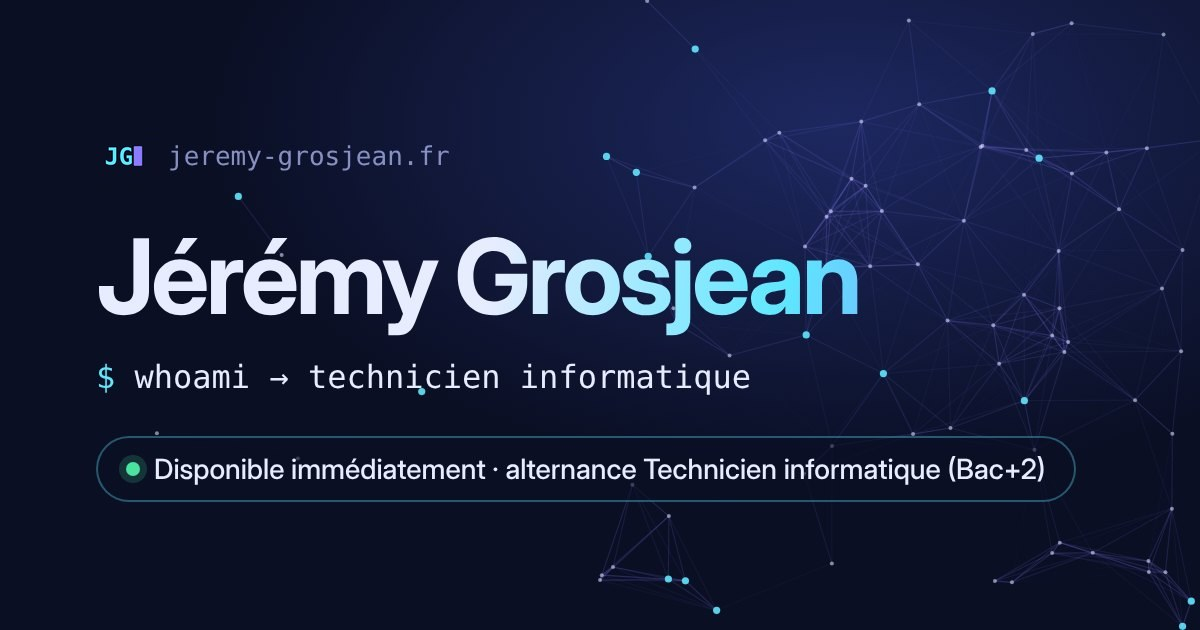
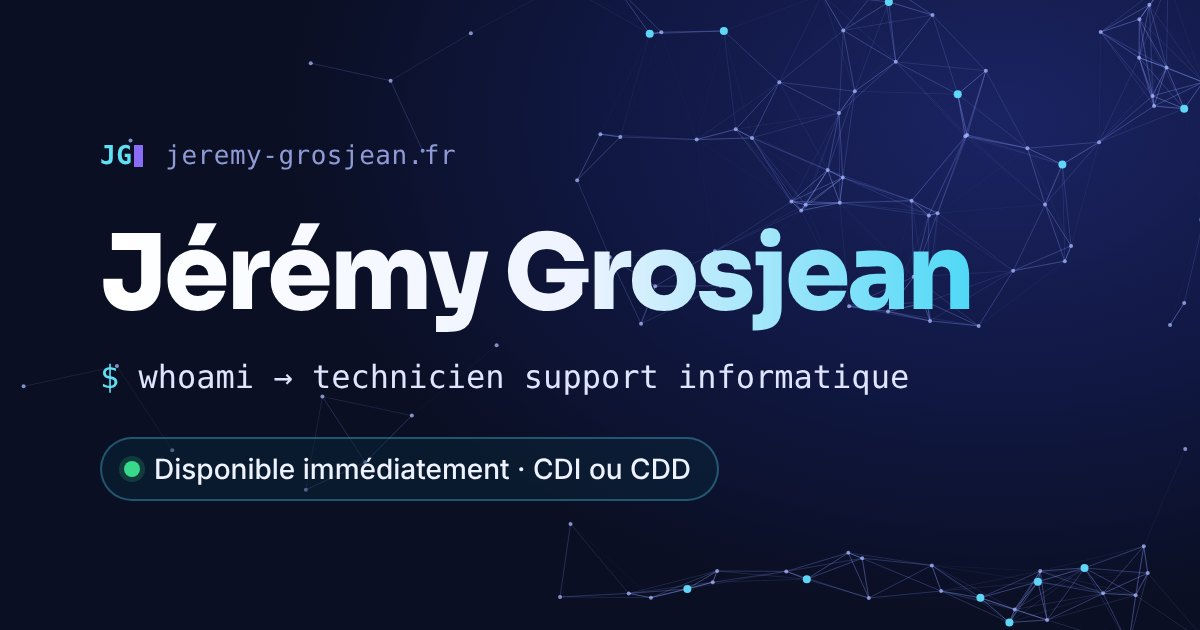
feat: recherche d'un poste de technicien support en CDI ou CDD, alternance en option
- titre « Technicien support informatique », disponibilité « CDI ou CDD » partout (accueil, fiche, vue sur une page, carte de visite, terminal, e-mail prérempli, partage, fiche contact, manifeste, image de partage)
- l'alternance (bac+2, OpenClassrooms) reste sur une seule ligne, en option
- fenêtre « M'embaucher en contrat pro » retirée de la fiche ; l'ancien lien ouvre la fiche
- FAQ : alternance, compétences, départ de Bosch ; 6 langues

diff --git a/site/assets/labs7.js b/site/assets/labs7.js
@@ -423,3 +423,168 @@
     if (r) { r[0] = 'MOD + E'; r[1] = D[k].recKey; }
   }
 })(window.JG_I18N || {});
+/* Lot 72 : recherche d'un poste de technicien support en CDI ou CDD ; l'alternance (bac+2) reste possible, sur une seule ligne discrète */
+(function (L) {
+  const D = {
+    fr: {
+      title: 'Jérémy Grosjean · Technicien support informatique', titleTab: 'Jérémy Grosjean · Technicien support informatique', whoRole: 'technicien support informatique',
+      availLine: 'Disponible immédiatement · CDI ou CDD', fmAvail: 'Disponible immédiatement · CDI ou CDD', fmRole: 'Technicien support informatique · CDI ou CDD',
+      briefSub: 'Technicien support informatique · CDI ou CDD · disponible immédiatement',
+      contactIntro: 'Pour un poste, une question ou un échange, écrivez-moi :',
+      tWhoami: 'Jérémy Grosjean, technicien support informatique. Recherche un CDI ou un CDD. Tapez boot ou contact.',
+      tourBrief: 'Mon profil en 30 secondes : poste recherché, expérience, titre, disponibilité.',
+      shText: 'Jérémy Grosjean, technicien support informatique, cherche un CDI ou un CDD',
+      shMailSubject: 'Profil : Jérémy Grosjean, technicien support informatique',
+      mailSubject: 'Poste de technicien support informatique : prise de contact',
+      mailBody: 'Bonjour Jérémy,\n\nJe vous contacte au sujet d’un poste de technicien support informatique.\n\nEntreprise :\nVille :\nType de contrat :\nDate de début souhaitée :\nTéléphone :\n\nCordialement,\n',
+      slotIcsTitle: 'Entretien avec Jérémy Grosjean (technicien support informatique)',
+      domTip: 'Mes domaines de travail défilent ici', goalV: 'technicien support informatique, CDI ou CDD',
+      boot: [['ok', 'Titre professionnel TAI (niveau 4) obtenu'], ['wait', 'Recherche un CDI ou un CDD de technicien support'], ['info', 'Windows 11, Microsoft 365, Active Directory, GLPI'], ['info', 'Alternance possible aussi (bac+2, OpenClassrooms)']],
+      bootShort: [['ok', 'TAI niveau 4 obtenu'], ['ok', 'Près de 4 ans en support'], ['wait', 'CDI ou CDD recherché'], ['info', 'Alternance possible aussi']],
+      rows: [['Recherche', 'Un poste de technicien support informatique (support N1/N2, poste de travail, proximité), en CDI ou CDD, dans une entreprise ou dans la fonction publique'],
+        ['Expérience', 'Près de 4 ans en support informatique, dont près de 3 ans chez Bosch, jusqu’à la fermeture du site en septembre 2026'],
+        ['Alternance', 'Possible aussi si le poste le demande : contrat de professionnalisation de 12 mois pour préparer le bac+2 Technicien informatique (OpenClassrooms)'],
+        ['Compétences', 'Support N1/N2, GLPI et ITIL, Windows 10/11, Microsoft 365, Active Directory, réseau, PowerShell']],
+      tiles: [['Poste recherché', 'Technicien support', 'informatique, en CDI ou CDD'], ['Disponibilité', 'Immédiate', 'sans préavis'], ['Alternance', 'Possible aussi', 'bac+2 Technicien informatique, OpenClassrooms']],
+      q: ['Êtes-vous ouvert à l’alternance ?', 'Quelles sont vos compétences ?', 'Pourquoi avez-vous quitté Bosch ?'],
+      bosch: 'Le site Bosch d’Yzeure a fermé en septembre 2026 : mon poste s’est arrêté avec la fermeture du site.',
+      next: ['Maintenant', 'Technicien support informatique, en CDI ou CDD', 'Disponible immédiatement · alternance possible aussi (bac+2, OpenClassrooms, RNCP40357)']
+    },
+    en: {
+      title: 'Jérémy Grosjean · IT Support Technician', titleTab: 'Jérémy Grosjean · IT Support Technician', whoRole: 'IT support technician',
+      availLine: 'Available now · permanent or fixed-term', fmAvail: 'Available now · permanent or fixed-term', fmRole: 'IT support technician · permanent or fixed-term',
+      briefSub: 'IT support technician · permanent or fixed-term contract · available now',
+      contactIntro: 'For a job, a question or a chat, write to me:',
+      tWhoami: 'Jérémy Grosjean, IT support technician. Looking for a permanent or fixed-term job. Type boot or contact.',
+      tourBrief: 'My profile in 30 seconds: job wanted, experience, title, availability.',
+      shText: 'Jérémy Grosjean, IT support technician, is looking for a permanent or fixed-term job',
+      shMailSubject: 'Profile: Jérémy Grosjean, IT support technician',
+      mailSubject: 'IT support technician job: getting in touch',
+      mailBody: 'Hello Jérémy,\n\nI am contacting you about an IT support technician job.\n\nCompany:\nCity:\nContract type:\nPreferred start date:\nPhone:\n\nBest regards,\n',
+      slotIcsTitle: 'Interview with Jérémy Grosjean (IT support technician)',
+      domTip: 'The areas I work in scroll here', goalV: 'IT support technician, permanent or fixed-term',
+      boot: [['ok', 'French professional title TAI (level 4) earned'], ['wait', 'Looking for a permanent or fixed-term IT support job'], ['info', 'Windows 11, Microsoft 365, Active Directory, GLPI'], ['info', 'Work-study also possible (2-year degree, OpenClassrooms)']],
+      bootShort: [['ok', 'TAI level 4 earned'], ['ok', 'Almost 4 years in support'], ['wait', 'Seeking permanent/fixed-term'], ['info', 'Work-study also possible']],
+      rows: [['Looking for', 'An IT support technician job (level 1/2 support, workstations, on-site support), permanent or fixed-term, in a company or in the public sector'],
+        ['Experience', 'Almost 4 years in IT support, including nearly 3 years at Bosch, until the site closed in September 2026'],
+        ['Work-study', 'Also possible if the job requires it: a 12-month professionalisation contract to prepare the 2-year IT Technician degree (OpenClassrooms)'],
+        ['Skills', 'Level 1/2 support, GLPI and ITIL, Windows 10/11, Microsoft 365, Active Directory, networking, PowerShell']],
+      tiles: [['Job wanted', 'IT support technician', 'permanent or fixed-term'], ['Availability', 'Now', 'no notice period'], ['Work-study', 'Also possible', '2-year IT Technician degree, OpenClassrooms']],
+      q: ['Are you open to work-study?', 'What are your skills?', 'Why did you leave Bosch?'],
+      bosch: 'The Bosch site in Yzeure closed in September 2026: my job ended with the closure of the site.',
+      next: ['Now', 'IT support technician, permanent or fixed-term', 'Available now · work-study also possible (2-year degree, OpenClassrooms, RNCP40357)']
+    },
+    'zh-Hans': {
+      title: 'Jérémy Grosjean · IT 支持技术员', titleTab: 'Jérémy Grosjean · IT 支持技术员', whoRole: 'IT 支持技术员',
+      availLine: '可立即入职 · 无固定期限或固定期限合同', fmAvail: '可立即入职 · 无固定期限或固定期限合同', fmRole: 'IT 支持技术员 · 无固定期限或固定期限合同',
+      briefSub: 'IT 支持技术员 · 无固定期限或固定期限合同 · 可立即入职',
+      contactIntro: '求职、提问或交流，请给我写信：',
+      tWhoami: 'Jérémy Grosjean，IT 支持技术员。正在寻找无固定期限或固定期限的工作。输入 boot 或 contact。',
+      tourBrief: '30 秒了解我：求职岗位、经验、资格、入职时间。',
+      shText: 'IT 支持技术员 Jérémy Grosjean 正在寻找无固定期限或固定期限的工作',
+      shMailSubject: '简介：Jérémy Grosjean，IT 支持技术员',
+      mailSubject: 'IT 支持技术员职位：联系',
+      mailBody: '您好 Jérémy：\n\n我想就 IT 支持技术员职位与您联系。\n\n公司：\n城市：\n合同类型：\n希望开始日期：\n电话：\n\n此致\n',
+      slotIcsTitle: '与 Jérémy Grosjean 面试（IT 支持技术员）',
+      domTip: '我的工作领域在这里轮流显示', goalV: 'IT 支持技术员，无固定期限或固定期限合同',
+      boot: [['ok', '已获得 TAI 职业资格（4 级）'], ['wait', '寻找 IT 支持技术员职位（无固定期限或固定期限）'], ['info', 'Windows 11、Microsoft 365、Active Directory、GLPI'], ['info', '也可接受工学交替（bac+2，OpenClassrooms）']],
+      bootShort: [['ok', '已获 TAI 4 级资格'], ['ok', '近 4 年 IT 支持经验'], ['wait', '寻找正式工作'], ['info', '也可接受工学交替']],
+      rows: [['求职意向', 'IT 支持技术员职位（一线/二线支持、工作站、现场支持），无固定期限或固定期限合同，企业或公共部门均可'],
+        ['经验', '近 4 年 IT 支持经验，其中近 3 年在博世（Bosch），直到该厂区于 2026 年 9 月关闭'],
+        ['工学交替', '如岗位需要，也可以：签订 12 个月职业化合同，攻读 IT 技术员 bac+2 学历（OpenClassrooms）'],
+        ['技能', '一线/二线支持、GLPI 和 ITIL、Windows 10/11、Microsoft 365、Active Directory、网络、PowerShell']],
+      tiles: [['求职意向', 'IT 支持技术员', '无固定期限或固定期限合同'], ['入职时间', '立即', '无需预告期'], ['工学交替', '也可以', 'IT 技术员 bac+2，OpenClassrooms']],
+      q: ['您接受工学交替吗？', '您有哪些技能？', '您为什么离开博世？'],
+      bosch: '博世位于伊泽尔（Yzeure）的厂区于 2026 年 9 月关闭，我的岗位随之结束。',
+      next: ['现在', 'IT 支持技术员，无固定期限或固定期限合同', '可立即入职 · 也可接受工学交替（bac+2，OpenClassrooms，RNCP40357）']
+    },
+    'zh-Hant': {
+      title: 'Jérémy Grosjean · IT 支援技術員', titleTab: 'Jérémy Grosjean · IT 支援技術員', whoRole: 'IT 支援技術員',
+      availLine: '可立即到職 · 不定期或定期契約', fmAvail: '可立即到職 · 不定期或定期契約', fmRole: 'IT 支援技術員 · 不定期或定期契約',
+      briefSub: 'IT 支援技術員 · 不定期或定期契約 · 可立即到職',
+      contactIntro: '求職、提問或交流，請寫信給我：',
+      tWhoami: 'Jérémy Grosjean，IT 支援技術員。正在尋找不定期或定期契約的工作。輸入 boot 或 contact。',
+      tourBrief: '30 秒認識我：應徵職位、經歷、資格、到職時間。',
+      shText: 'IT 支援技術員 Jérémy Grosjean 正在尋找不定期或定期契約的工作',
+      shMailSubject: '簡介：Jérémy Grosjean，IT 支援技術員',
+      mailSubject: 'IT 支援技術員職缺：聯絡',
+      mailBody: '您好 Jérémy：\n\n我想就 IT 支援技術員職缺與您聯絡。\n\n公司：\n城市：\n契約類型：\n希望開始日期：\n電話：\n\n敬祝 順心\n',
+      slotIcsTitle: '與 Jérémy Grosjean 面試（IT 支援技術員）',
+      domTip: '我的工作領域在這裡輪流顯示', goalV: 'IT 支援技術員，不定期或定期契約',
+      boot: [['ok', '已取得 TAI 職業資格（第 4 級）'], ['wait', '尋找 IT 支援技術員職位（不定期或定期契約）'], ['info', 'Windows 11、Microsoft 365、Active Directory、GLPI'], ['info', '也可接受建教合作（bac+2，OpenClassrooms）']],
+      bootShort: [['ok', '已取得 TAI 第 4 級'], ['ok', '近 4 年 IT 支援經驗'], ['wait', '尋找正式工作'], ['info', '也可接受建教合作']],
+      rows: [['應徵職位', 'IT 支援技術員職位（第一線/第二線支援、工作站、現場支援），不定期或定期契約，企業或公部門皆可'],
+        ['經歷', '近 4 年 IT 支援經驗，其中近 3 年在博世（Bosch），直到該廠區於 2026 年 9 月關閉'],
+        ['建教合作', '如職位需要，也可以：簽訂 12 個月職業化契約，攻讀 IT 技術員 bac+2 學歷（OpenClassrooms）'],
+        ['技能', '第一線/第二線支援、GLPI 與 ITIL、Windows 10/11、Microsoft 365、Active Directory、網路、PowerShell']],
+      tiles: [['應徵職位', 'IT 支援技術員', '不定期或定期契約'], ['到職時間', '立即', '無需預告期'], ['建教合作', '也可以', 'IT 技術員 bac+2，OpenClassrooms']],
+      q: ['您接受建教合作嗎？', '您有哪些技能？', '您為什麼離開博世？'],
+      bosch: '博世位於伊澤爾（Yzeure）的廠區於 2026 年 9 月關閉，我的職位隨之結束。',
+      next: ['現在', 'IT 支援技術員，不定期或定期契約', '可立即到職 · 也可接受建教合作（bac+2，OpenClassrooms，RNCP40357）']
+    },
+    yue: {
+      title: 'Jérémy Grosjean · IT 支援技術員', titleTab: 'Jérémy Grosjean · IT 支援技術員', whoRole: 'IT 支援技術員',
+      availLine: '即刻可以開工 · 長期或者定期合約', fmAvail: '即刻可以開工 · 長期或者定期合約', fmRole: 'IT 支援技術員 · 長期或者定期合約',
+      briefSub: 'IT 支援技術員 · 長期或者定期合約 · 即刻可以開工',
+      contactIntro: '搵工、問嘢或者傾偈，寫信畀我：',
+      tWhoami: 'Jérémy Grosjean，IT 支援技術員。搵緊長期或者定期合約嘅工。打 boot 或者 contact。',
+      tourBrief: '30 秒睇晒：想搵嘅職位、經驗、資格、幾時開工。',
+      shText: 'IT 支援技術員 Jérémy Grosjean 搵緊長期或者定期合約嘅工',
+      shMailSubject: '簡介：Jérémy Grosjean，IT 支援技術員',
+      mailSubject: 'IT 支援技術員職位：聯絡',
+      mailBody: '你好 Jérémy：\n\n我想同你傾吓 IT 支援技術員職位。\n\n公司：\n城市：\n合約類型：\n想幾時開始：\n電話：\n\n多謝\n',
+      slotIcsTitle: '同 Jérémy Grosjean 面試（IT 支援技術員）',
+      domTip: '我做嘢嘅範疇喺度輪住顯示', goalV: 'IT 支援技術員，長期或者定期合約',
+      boot: [['ok', '已攞到 TAI 職業資格（第 4 級）'], ['wait', '搵緊 IT 支援技術員職位（長期或者定期合約）'], ['info', 'Windows 11、Microsoft 365、Active Directory、GLPI'], ['info', '工讀交替都得（bac+2，OpenClassrooms）']],
+      bootShort: [['ok', '已攞 TAI 第 4 級'], ['ok', '差唔多 4 年 IT 支援'], ['wait', '搵緊正式工'], ['info', '工讀交替都得']],
+      rows: [['想搵嘅職位', 'IT 支援技術員（第一線/第二線支援、電腦、現場支援），長期或者定期合約，私人公司或者公營機構都得'],
+        ['經驗', '差唔多 4 年 IT 支援經驗，其中差唔多 3 年喺博世（Bosch），做到廠區喺 2026 年 9 月關閉為止'],
+        ['工讀交替', '如果職位需要都得：簽 12 個月職業化合約，讀 IT 技術員 bac+2 學歷（OpenClassrooms）'],
+        ['技能', '第一線/第二線支援、GLPI 同 ITIL、Windows 10/11、Microsoft 365、Active Directory、網絡、PowerShell']],
+      tiles: [['想搵嘅職位', 'IT 支援技術員', '長期或者定期合約'], ['幾時開工', '即刻', '唔使預告期'], ['工讀交替', '都得', 'IT 技術員 bac+2，OpenClassrooms']],
+      q: ['你接唔接受工讀交替？', '你有咩技能？', '點解你離開博世？'],
+      bosch: '博世喺伊澤爾（Yzeure）嘅廠區喺 2026 年 9 月關閉，我份工就跟住完咗。',
+      next: ['而家', 'IT 支援技術員，長期或者定期合約', '即刻可以開工 · 工讀交替都得（bac+2，OpenClassrooms，RNCP40357）']
+    },
+    ko: {
+      title: 'Jérémy Grosjean · IT 지원 기술자', titleTab: 'Jérémy Grosjean · IT 지원 기술자', whoRole: 'IT 지원 기술자',
+      availLine: '즉시 근무 가능 · 정규직 또는 계약직', fmAvail: '즉시 근무 가능 · 정규직 또는 계약직', fmRole: 'IT 지원 기술자 · 정규직 또는 계약직',
+      briefSub: 'IT 지원 기술자 · 정규직 또는 계약직 · 즉시 근무 가능',
+      contactIntro: '채용, 문의 또는 교류를 원하시면 메일 주세요:',
+      tWhoami: 'Jérémy Grosjean, IT 지원 기술자. 정규직 또는 계약직 일자리를 찾고 있습니다. boot 또는 contact를 입력하세요.',
+      tourBrief: '30초 요약: 희망 직무, 경력, 자격, 근무 가능 시기.',
+      shText: 'IT 지원 기술자 Jérémy Grosjean이 정규직 또는 계약직 일자리를 찾고 있습니다',
+      shMailSubject: '프로필: Jérémy Grosjean, IT 지원 기술자',
+      mailSubject: 'IT 지원 기술자 채용: 연락드립니다',
+      mailBody: '안녕하세요 Jérémy 님,\n\nIT 지원 기술자 채용과 관련해 연락드립니다.\n\n회사:\n도시:\n계약 형태:\n희망 시작일:\n전화:\n\n감사합니다.\n',
+      slotIcsTitle: 'Jérémy Grosjean 면접 (IT 지원 기술자)',
+      domTip: '제가 일하는 분야가 여기에 번갈아 표시됩니다', goalV: 'IT 지원 기술자, 정규직 또는 계약직',
+      boot: [['ok', 'TAI 직업 자격(4단계) 취득'], ['wait', 'IT 지원 기술자 정규직 또는 계약직 구직 중'], ['info', 'Windows 11, Microsoft 365, Active Directory, GLPI'], ['info', '일·학습 병행도 가능 (bac+2, OpenClassrooms)']],
+      bootShort: [['ok', 'TAI 4단계 취득'], ['ok', 'IT 지원 약 4년'], ['wait', '정규직·계약직 구직 중'], ['info', '일·학습 병행도 가능']],
+      rows: [['희망 직무', 'IT 지원 기술자(1·2단계 지원, 업무용 PC, 현장 지원), 정규직 또는 계약직, 기업 또는 공공 부문'],
+        ['경력', 'IT 지원 약 4년, 그중 보쉬(Bosch)에서 약 3년(2026년 9월 사업장 폐쇄 때까지)'],
+        ['일·학습 병행', '직무에 필요하면 가능: 12개월 직업화 계약으로 IT 기술자 bac+2 학위 준비(OpenClassrooms)'],
+        ['기술', '1·2단계 지원, GLPI와 ITIL, Windows 10/11, Microsoft 365, Active Directory, 네트워크, PowerShell']],
+      tiles: [['희망 직무', 'IT 지원 기술자', '정규직 또는 계약직'], ['근무 가능', '즉시', '예고 기간 없음'], ['일·학습 병행', '가능', 'IT 기술자 bac+2, OpenClassrooms']],
+      q: ['일·학습 병행도 가능한가요?', '어떤 기술이 있나요?', '왜 보쉬를 떠났나요?'],
+      bosch: '이죄르(Yzeure)의 보쉬 사업장이 2026년 9월에 문을 닫으면서 제 일자리도 끝났습니다.',
+      next: ['지금', 'IT 지원 기술자, 정규직 또는 계약직', '즉시 근무 가능 · 일·학습 병행도 가능 (bac+2, OpenClassrooms, RNCP40357)']
+    }
+  };
+  for (const k of Object.keys(D)) {
+    const T = L[k], d = D[k]; if (!T) continue;
+    T.whoRoleShort = { fr: 'technicien support', en: 'IT support tech' }[k] || d.whoRole;
+    for (const key of ['title', 'titleTab', 'whoRole', 'availLine', 'fmAvail', 'fmRole', 'briefSub', 'contactIntro', 'tWhoami', 'tourBrief', 'shText', 'shMailSubject', 'mailSubject', 'mailBody', 'slotIcsTitle', 'domTip', 'boot', 'bootShort']) T[key] = d[key];
+    if (T.neo) T.neo = Object.assign({}, T.neo, { goalV: d.goalV });
+    const ob = T.brief || [], ot = T.briefTiles || [], oq = T.faqQ || [], ox = T.faqExtra || [];
+    /* 6 lignes (la dernière sert d'intitulé aux pastilles de domaines) : titre, recherche, disponibilité, expérience, alternance, compétences */
+    T.brief = [ob[0], d.rows[0], ob[4], d.rows[1], d.rows[2], d.rows[3]];
+    /* 8 tuiles ; les places 5 (lieu), 6 (mobilité) et 7 (codes officiels) ne bougent pas */
+    T.briefTiles = [d.tiles[0], d.tiles[1], ot[4], ot[0], d.tiles[2], ot[5], ot[6], ot[7]];
+    /* Questions 0 à 5 = lignes ci-dessus, 6 à 10 = réponses supplémentaires, 11 = contact */
+    T.faqQ = [oq[0], oq[1], oq[4], oq[7], d.q[0], d.q[1], oq[6], d.q[2], oq[8], oq[9], oq[10], oq[11]];
+    T.faqExtra = [ox[0], d.bosch, ox[2], ox[3], ox[4]];
+    T.faqMore = [];
+    if (Array.isArray(T.pcItems)) T.pcItems = [['next', d.next[0], d.next[1], d.next[2], []]].concat(T.pcItems.filter(p => p[0] !== 'next'));
+  }
+})(window.JG_I18N || {});

diff --git a/site/index.html b/site/index.html
@@ -8,20 +8,20 @@
 <meta name="theme-color" content="#0A0F24" media="(prefers-color-scheme: dark)">
 <meta name="theme-color" content="#F7F9FF" media="(prefers-color-scheme: light)">
 <meta name="referrer" content="no-referrer">
-<meta name="description" content="Jérémy Grosjean, technicien informatique. Disponible immédiatement pour une alternance Technicien informatique (Bac+2).">
+<meta name="description" content="Jérémy Grosjean, technicien support informatique. Disponible immédiatement, en CDI ou CDD : support N1/N2, postes Windows, Microsoft 365, Active Directory.">
 <meta property="og:type" content="website">
 <meta property="og:site_name" content="jeremy-grosjean.fr">
 <meta property="og:locale" content="fr_FR">
 <meta property="og:url" content="https://jeremy-grosjean.fr/">
-<meta property="og:title" content="Jérémy Grosjean · Technicien informatique">
-<meta property="og:description" content="Disponible immédiatement pour une alternance Technicien informatique (Bac+2) · 12 mois, 4 jours en entreprise et 1 jour en formation.">
+<meta property="og:title" content="Jérémy Grosjean · Technicien support informatique">
+<meta property="og:description" content="Disponible immédiatement, en CDI ou CDD · près de 4 ans en support informatique, dont près de 3 ans chez Bosch.">
 <meta property="og:image" content="https://jeremy-grosjean.fr/og.jpg">
 <meta property="og:image:type" content="image/jpeg">
 <meta property="og:image:width" content="1200">
 <meta property="og:image:height" content="630">
-<meta property="og:image:alt" content="Jérémy Grosjean, technicien informatique, recherche une alternance">
+<meta property="og:image:alt" content="Jérémy Grosjean, technicien support informatique, disponible immédiatement en CDI ou CDD">
 <meta name="twitter:card" content="summary_large_image">
-<title>Jérémy Grosjean · Technicien informatique</title>
+<title>Jérémy Grosjean · Technicien support informatique</title>
 <link rel="icon" href="/favicon.ico?v=207d79eba8" sizes="48x48">
 <link rel="icon" href="/favicon.svg?v=3b2a8a60bb" type="image/svg+xml">
 <link rel="apple-touch-icon" href="/apple-touch-icon.png?v=8f2070778e">
@@ -29,7 +29,7 @@
 <meta name="apple-mobile-web-app-capable" content="yes">
 <meta name="apple-mobile-web-app-title" content="J. Grosjean">
 <meta name="apple-mobile-web-app-status-bar-style" content="black-translucent">
-<link rel="manifest" href="/site.webmanifest?v=ef4a63980f">
+<link rel="manifest" href="/site.webmanifest?v=c139d48fb4">
 <link rel="preload" href="/assets/fonts/sora.woff2" as="font" type="font/woff2" crossorigin>
 <link rel="stylesheet" href="/assets/app.css?v=47d4fb20b5">
 <script src="/assets/i18n.js?v=a51a4e32c5" defer></script>
@@ -39,10 +39,10 @@
 <script src="/assets/labs4.js?v=08596d3504" defer></script>
 <script src="/assets/labs5.js?v=60720498d6" defer></script>
 <script src="/assets/labs6.js?v=716e5179dc" defer></script>
-<script src="/assets/labs7.js?v=bb522f92b1" defer></script>
+<script src="/assets/labs7.js?v=2549d3ec81" defer></script>
 <script src="/assets/status.js" defer></script>
 <script src="/assets/news.js?v=5b80be41d3" defer></script>
-<script src="/assets/app.js?v=40604c9181" defer></script>
+<script src="/assets/app.js?v=91985cf8c5" defer></script>
 </head>
 <body>
 <a class="skip" id="skipLink" href="#domain" data-i="skipLink">Aller à l’essentiel</a>
@@ -53,17 +53,17 @@
     <p class="hello" id="helloLine" hidden><b id="helloTxt"></b><span id="helloSub" data-i="helloSub">Merci de prendre le temps de découvrir mon profil.</span></p>
     <div class="hero-id">
       <img class="hero-photo" id="heroPhoto" src="/assets/jg.webp" width="64" height="64" alt="Photo de Jérémy Grosjean" decoding="async">
-      <h1 class="domain" id="domain" tabindex="-1"><span class="sr" id="srName">Jérémy Grosjean, technicien informatique</span><span id="nameFx" aria-hidden="true">Jérémy Grosjean</span></h1>
+      <h1 class="domain" id="domain" tabindex="-1"><span class="sr" id="srName">Jérémy Grosjean, technicien support informatique</span><span id="nameFx" aria-hidden="true">Jérémy Grosjean</span></h1>
     </div>
-    <p class="typeline who-line" aria-hidden="true"><span class="pr">$</span> <span id="who">whoami → technicien informatique</span><span class="cur" id="whoCur"></span></p>
+    <p class="typeline who-line" aria-hidden="true"><span class="pr">$</span> <span id="who">whoami → technicien support informatique</span><span class="cur" id="whoCur"></span></p>
     <p class="typeline rot-line" id="rotLine" aria-hidden="true"><span class="pr">$</span> <span data-i="domainsLbl">domaines :</span> <span class="rot" id="rot">support utilisateurs</span><span class="cur"></span></p>
     <p class="sr" id="srDomains"></p>
-    <p class="avail-wrap"><button class="avail" id="availBtn" type="button" aria-haspopup="dialog"><span class="avail-dot" aria-hidden="true"></span><span data-i="availLine">Disponible immédiatement pour une alternance</span><span class="avail-more" aria-hidden="true">›</span></button></p>
+    <p class="avail-wrap"><button class="avail" id="availBtn" type="button" aria-haspopup="dialog"><span class="avail-dot" aria-hidden="true"></span><span data-i="availLine">Disponible immédiatement · CDI ou CDD</span><span class="avail-more" aria-hidden="true">›</span></button></p>
     <ul class="bootlog" id="bootlog">
       <li><span class="st ok">[  OK  ]</span> <span>Titre professionnel TAI (niveau 4) obtenu</span></li>
-      <li><span class="st wait">[  ..  ]</span> <span>Recherche un contrat de professionnalisation de 12 mois</span></li>
-      <li><span class="st info">[ INFO ]</span> <span>4 jours en entreprise, 1 jour de formation</span></li>
-      <li><span class="st info">[ INFO ]</span> <span>Formation visée : bac+2 (niveau 5), OpenClassrooms</span></li>
+      <li><span class="st wait">[  ..  ]</span> <span>Recherche un CDI ou un CDD de technicien support</span></li>
+      <li><span class="st info">[ INFO ]</span> <span>Windows 11, Microsoft 365, Active Directory, GLPI</span></li>
+      <li><span class="st info">[ INFO ]</span> <span>Alternance possible aussi (bac+2, OpenClassrooms)</span></li>
     </ul>
     <div class="cta">
       <div class="cta-main"><button class="btn" id="contactBtn" type="button" aria-haspopup="dialog"><svg viewBox="0 0 24 24" fill="none" stroke="currentColor" stroke-width="2" stroke-linecap="round" stroke-linejoin="round" aria-hidden="true"><rect x="3" y="5" width="18" height="14" rx="2"/><path d="m3 7 9 6 9-6"/></svg><span data-i="contactBtn">Me contacter</span></button><span class="cta-note" data-i="ctDelayShort">Réponse sous 24 h, lun. au ven.</span></div>
@@ -87,9 +87,9 @@
       <img class="me-photo rec-photo" id="recPhoto" alt="" width="88" height="88" draggable="false" decoding="async" hidden>
       <div class="rec-id">
         <h2 class="rec-name" id="recName">Jérémy Grosjean</h2>
-        <p class="rec-role" id="recRole">Technicien informatique</p>
+        <p class="rec-role" id="recRole">Technicien support informatique</p>
       </div>
-      <p class="rec-avail"><span class="avail-dot" aria-hidden="true"></span><span data-i="availLine">Disponible immédiatement pour une alternance</span></p>
+      <p class="rec-avail"><span class="avail-dot" aria-hidden="true"></span><span data-i="availLine">Disponible immédiatement · CDI ou CDD</span></p>
     </header>
     <div class="rec-col-a">
     <h3 data-i="recProfile">Profil</h3>
@@ -274,7 +274,7 @@
   <div class="card">
     <h2 id="contactTitle" data-i="contactTitle">Me contacter</h2>
     <div class="c-col c-main">
-    <p data-i="contactIntro">Pour une alternance, une question ou un échange, écrivez-moi :</p>
+    <p data-i="contactIntro">Pour un poste, une question ou un échange, écrivez-moi :</p>
     <p class="ct-delay"><span aria-hidden="true">⏱</span> <span data-i="ctDelay">Réponse sous 24 h, du lundi au vendredi</span></p>
     <p class="mail-box"><span id="mailAddr">contact [at] jeremy-grosjean.fr</span></p>
     <div class="actions contact-main">
@@ -629,7 +629,7 @@
     <img class="forum-photo" src="/assets/jg.webp" width="160" height="160" alt="" decoding="async">
     <p class="forum-name">Jérémy Grosjean</p>
     <p class="forum-role" id="fmRole" data-i="fmRole"></p>
-    <p class="forum-avail"><span class="avail-dot" aria-hidden="true"></span><span data-i="fmAvail">Disponible immédiatement · alternance 12 mois</span></p>
+    <p class="forum-avail"><span class="avail-dot" aria-hidden="true"></span><span data-i="fmAvail">Disponible immédiatement · CDI ou CDD</span></p>
     <p class="forum-where" data-i="fmWhere">Lieux de travail possibles : Paris et Île-de-France · Pontarlier · Besançon</p>
     <p class="forum-li"><a href="https://www.linkedin.com/in/jeremy-grosjean" target="_blank" rel="noopener"><b class="li-ico" aria-hidden="true">in</b> linkedin.com/in/jeremy-grosjean</a></p>
     <div class="forum-scanbox">
@@ -670,12 +670,12 @@
   <div class="card">
     <h2 id="briefTitle" data-i="briefTitle">En 30 secondes</h2>
     <div class="brief-id"><img class="me-photo" id="briefPhoto" alt="" width="44" height="44" draggable="false" decoding="async" hidden><p class="brief-avail"><span class="avail-dot" aria-hidden="true"></span><span data-i="briefAvail">Disponible immédiatement</span></p></div>
-    <p class="brief-sub" id="briefSub">Technicien informatique en alternance (contrat de professionnalisation, 12 mois)</p>
+    <p class="brief-sub" id="briefSub">Technicien support informatique · CDI ou CDD · disponible immédiatement</p>
     <dl class="brief-tiles" id="briefList"></dl>
     <p class="brief-dom-lbl" id="briefDomLbl"></p>
     <ul class="brief-doms" id="briefDoms"></ul>
     <div class="actions"><button class="btn" id="briefContact" type="button" data-i="contactBtn">Me contacter</button><button class="btn-ghost" id="briefSlot" type="button" data-i="slotBtn">Proposer un créneau</button></div>
-    <div class="brief-links"><button class="link-btn pc-link" id="briefParcours" type="button" data-i="pcBtn">Mon parcours</button><button class="link-btn pc-link" id="briefHire" type="button" data-i="hireBtn">M’embaucher : démarches et coût</button><button class="link-btn" id="briefSkills" type="button" data-i="skBtn">Mes compétences</button><button class="link-btn" id="briefFaq" type="button" data-i="faqBtn">Questions fréquentes</button><button class="link-btn" id="briefRec" type="button" data-i="recOpen">Vue sur une page</button><button class="link-btn" id="briefShare" type="button" data-i="shBtn">Partager</button><a class="link-btn li-wide" href="https://www.linkedin.com/in/jeremy-grosjean" target="_blank" rel="noopener"><b class="li-ico" aria-hidden="true">in</b> <span data-i="liLink">Mon profil LinkedIn</span></a></div>
+    <div class="brief-links"><button class="link-btn pc-link" id="briefParcours" type="button" data-i="pcBtn">Mon parcours</button><button class="link-btn" id="briefSkills" type="button" data-i="skBtn">Mes compétences</button><button class="link-btn" id="briefFaq" type="button" data-i="faqBtn">Questions fréquentes</button><button class="link-btn" id="briefRec" type="button" data-i="recOpen">Vue sur une page</button><button class="link-btn" id="briefShare" type="button" data-i="shBtn">Partager</button><a class="link-btn li-wide" href="https://www.linkedin.com/in/jeremy-grosjean" target="_blank" rel="noopener"><b class="li-ico" aria-hidden="true">in</b> <span data-i="liLink">Mon profil LinkedIn</span></a></div>
   </div>
 </div>
 

diff --git a/site/assets/app.js b/site/assets/app.js
@@ -824,7 +824,8 @@
   /* ================= Accueil : nom déchiffré, domaines tapés, journal de démarrage ================= */
   const BOOT_TAG = { ok: '[  OK  ]', wait: '[  ..  ]', info: '[ INFO ]' };
   const bootUl = $('bootlog'), rotEl = $('rot'), nameFx = $('nameFx'), whoEl = $('who'), whoCur = $('whoCur'), rotLine = $('rotLine');
-  const whoText = () => 'whoami → ' + (t('whoRole') || '');
+  /* Téléphone étroit : intitulé court sur la ligne « whoami », pour qu'elle tienne sur une ligne */
+  const whoText = () => 'whoami → ' + ((innerWidth <= 440 && t('whoRoleShort')) || t('whoRole') || '');
   let whoDone = false;
   let heroStarted = false, rotGen = 0;
   /* Sur téléphone, le journal est raccourci : une ligne par information, sans retour à la ligne */
@@ -2563,8 +2564,8 @@
   function fmVcardText() {
     const fold = l => { const out = []; while (l.length > 74) { out.push(l.slice(0, 74)); l = ' ' + l.slice(74); } out.push(l); return out.join('\r\n'); };
     const ph = fmPhoto();
-    return ['BEGIN:VCARD', 'VERSION:3.0', 'N:Grosjean;Jérémy;;;', 'FN:Jérémy Grosjean', 'TITLE:Technicien informatique',
-      'NOTE:Disponible immédiatement pour une alternance Technicien informatique (Bac+2).', 'EMAIL;TYPE=INTERNET,PREF:contact@jeremy-grosjean.fr', 'URL:https://jeremy-grosjean.fr', 'URL:https://www.linkedin.com/in/jeremy-grosjean',
+    return ['BEGIN:VCARD', 'VERSION:3.0', 'N:Grosjean;Jérémy;;;', 'FN:Jérémy Grosjean', 'TITLE:Technicien support informatique',
+      'NOTE:Technicien support informatique · disponible immédiatement en CDI ou CDD.', 'EMAIL;TYPE=INTERNET,PREF:contact@jeremy-grosjean.fr', 'URL:https://jeremy-grosjean.fr', 'URL:https://www.linkedin.com/in/jeremy-grosjean',
       ...(ph ? [fold('PHOTO;ENCODING=b;TYPE=JPEG:' + ph)] : []), 'END:VCARD', ''].join('\r\n');
   }
   async function fmSendCard() {
@@ -3483,7 +3484,7 @@
     else if (h === '#jeux' || h === '#games') { history.replaceState(null, '', location.pathname + location.search); openGames(); }
     else if (h === '#fiche' || h === '#30s') { history.replaceState(null, '', location.pathname + location.search); openBrief(); }
     else if (h === '#parcours' || h === '#career') { history.replaceState(null, '', location.pathname + location.search); openParcours(); }
-    else if (h === '#embaucher' || h === '#hire') { history.replaceState(null, '', location.pathname + location.search); openHire(); }
+    else if (h === '#embaucher' || h === '#hire') { history.replaceState(null, '', location.pathname + location.search); openBrief(); } /* l'ancienne fenêtre « M'embaucher en contrat pro » ouvre maintenant la fiche */
     else if (h === '#competences' || h === '#skills') { history.replaceState(null, '', location.pathname + location.search); openSkills(); }
     else if (h === '#faq') { history.replaceState(null, '', location.pathname + location.search); openFaq(); }
     else if (h === '#securite' || h === '#security') { history.replaceState(null, '', location.pathname + location.search); $('secBtn').click(); }
@@ -3495,7 +3496,7 @@
   (() => { try {
     if (FORUM || location.hash || REC_HASH.includes(location.hash) || !t('lastPanel')) return;
     const raw = store.get('jg-last') || '', [id, ts] = raw.split('|'); if (!id || !ts || Date.now() - +ts > 86400000) return;
-    const OPEN = { briefPanel: openBrief, parcoursPanel: openParcours, hirePanel: openHire, skillsPanel: openSkills, faqPanel: openFaq, glossPanel: openGloss, contactPanel: () => $('contactBtn').click(), secPanel: () => $('secBtn').click() };
+    const OPEN = { briefPanel: openBrief, parcoursPanel: openParcours, hirePanel: openBrief, skillsPanel: openSkills, faqPanel: openFaq, glossPanel: openGloss, contactPanel: () => $('contactBtn').click(), secPanel: () => $('secBtn').click() };
     if (!OPEN[id] || !$(id)) return;
     const h = $(id).querySelector('h2'); if (!h) return;
     setTimeout(() => {

diff --git a/site/sw.js b/site/sw.js
@@ -2,9 +2,9 @@
    Pages : réseau d'abord (toujours la dernière version en ligne), copie locale seulement sans connexion.
    Fichiers versionnés (?v=…) : copie locale d'abord. Aucune donnée personnelle n'est stockée. */
 'use strict';
-const VERSION = 'a3f49a5590a8';
+const VERSION = '00bb07bebdb7';
 const CACHE = 'jg-' + VERSION;
-const PRECACHE = ["/", "/mentions-legales.html", "/accessibilite.html", "/404.html", "/favicon.ico?v=207d79eba8", "/favicon.svg?v=3b2a8a60bb", "/apple-touch-icon.png?v=8f2070778e", "/site.webmanifest?v=ef4a63980f", "/assets/fonts/sora.woff2", "/assets/app.css?v=47d4fb20b5", "/assets/i18n.js?v=a51a4e32c5", "/assets/labs.js?v=20998f7cc8", "/assets/labs2.js?v=1e3d821f80", "/assets/labs3.js?v=86512663bb", "/assets/labs4.js?v=08596d3504", "/assets/labs5.js?v=60720498d6", "/assets/labs6.js?v=716e5179dc", "/assets/labs7.js?v=bb522f92b1", "/assets/status.js", "/assets/news.js?v=5b80be41d3", "/assets/app.js?v=40604c9181", "/assets/jg.webp", "/qr.svg", "/qr-contact.svg", "/assets/legal.css?v=40df3dad7d", "/assets/legal.js?v=96b46cb169", "/assets/a11y.js?v=c7a891bfeb", "/assets/404.css?v=545c5df718", "/assets/404.js?v=314ec3e13b", "/icon-192.png"];
+const PRECACHE = ["/", "/mentions-legales.html", "/accessibilite.html", "/404.html", "/favicon.ico?v=207d79eba8", "/favicon.svg?v=3b2a8a60bb", "/apple-touch-icon.png?v=8f2070778e", "/site.webmanifest?v=c139d48fb4", "/assets/fonts/sora.woff2", "/assets/app.css?v=47d4fb20b5", "/assets/i18n.js?v=a51a4e32c5", "/assets/labs.js?v=20998f7cc8", "/assets/labs2.js?v=1e3d821f80", "/assets/labs3.js?v=86512663bb", "/assets/labs4.js?v=08596d3504", "/assets/labs5.js?v=60720498d6", "/assets/labs6.js?v=716e5179dc", "/assets/labs7.js?v=2549d3ec81", "/assets/status.js", "/assets/news.js?v=5b80be41d3", "/assets/app.js?v=91985cf8c5", "/assets/jg.webp", "/qr.svg", "/qr-contact.svg", "/assets/legal.css?v=40df3dad7d", "/assets/legal.js?v=96b46cb169", "/assets/a11y.js?v=c7a891bfeb", "/assets/404.css?v=545c5df718", "/assets/404.js?v=314ec3e13b", "/icon-192.png"];
 
 self.addEventListener('install', e => {
   e.waitUntil(caches.open(CACHE).then(c => Promise.all(PRECACHE.map(u => fetch(u, { cache: 'no-cache' }).then(r => {

diff --git a/outils/test_jeux.py b/outils/test_jeux.py
@@ -404,9 +404,9 @@ with sync_playwright() as p:
           $('faqClose').click();
           return out;
         }""")
-        if not (res['slotOpen'] and res['days'] == 8 and res['slots'] == 18 and not res['wkend'] and res['needPick'] and 'par téléphone' in res['mail'] and res['gmail'] and res['slotClosed'] and res['skills'] in (4, 5) and res['chips'] == 14 and res['chipGame'] and res['share'] and res['faq'] == 14 and res['faqTxt']):
+        if not (res['slotOpen'] and res['days'] == 8 and res['slots'] == 18 and not res['wkend'] and res['needPick'] and 'par téléphone' in res['mail'] and res['gmail'] and res['slotClosed'] and res['skills'] in (4, 5) and res['chips'] == 14 and res['chipGame'] and res['share'] and res['faq'] == 12 and res['faqTxt']):
             erreurs.append(f'{nom} : créneaux / compétences / partage / FAQ {res}')
-        ok(f'{nom} : créneaux (8 jours ouvrés, de 8 h à 18 h hors pause de midi, durée au choix, e-mail prérempli), compétences reliées aux jeux et outils, partage, FAQ de 14 questions')
+        ok(f'{nom} : créneaux (8 jours ouvrés, de 8 h à 18 h hors pause de midi, durée au choix, e-mail prérempli), compétences reliées aux jeux et outils, partage, FAQ de 12 questions')
         pg.wait_for_timeout(300)  # la fermeture de la FAQ revient d'un cran dans l'historique (geste retour) : on la laisse finir
         pg.goto(BASE + '/?pour=Société%20Générale%20<b>'); pg.wait_for_timeout(1200)
         res = pg.evaluate("""() => ({ hello: document.getElementById('helloLine').hidden ? '' : document.getElementById('helloTxt').textContent,
@@ -435,7 +435,7 @@ with sync_playwright() as p:
         ok(f'{nom} : mode forum (écran d’accueil, un toucher à côté ne la ferme pas, bouton « Découvrir mon profil »)')
         # Carte de visite à montrer : photo et « Disponible » à l'écran, bouton dans Affichage, commande « carte » du terminal
         pg.goto(BASE + '/?mode=carte'); pg.wait_for_timeout(1200)
-        s1 = pg.evaluate("(() => { const f = document.getElementById('forum'), ph = f.querySelector('.forum-photo'), av = f.querySelector('.forum-avail'); return !f.hidden && ph.complete && ph.naturalWidth > 0 && ph.getBoundingClientRect().width > 40 && /Disponible/.test(av.textContent) && /12\\u00a0mois/.test(av.textContent); })()")
+        s1 = pg.evaluate("(() => { const f = document.getElementById('forum'), ph = f.querySelector('.forum-photo'), av = f.querySelector('.forum-avail'); return !f.hidden && ph.complete && ph.naturalWidth > 0 && ph.getBoundingClientRect().width > 40 && /Disponible/.test(av.textContent) && /CDI ou CDD/.test(av.textContent); })()")
         pg.goto(BASE + '/'); pg.wait_for_timeout(900)
         pg.evaluate("document.getElementById('salonBtn').click()"); pg.wait_for_url('**/?mode=carte', timeout=5000); pg.wait_for_timeout(800)
         s2 = pg.evaluate("!document.getElementById('forum').hidden")

diff --git a/outils/verifier.py b/outils/verifier.py
@@ -131,7 +131,9 @@ else:
     print(f'  {len(ref)} textes comparés dans {len(T)} langues')
 # Un fichier de textes chargé plus tard ne doit pas écraser par erreur un texte existant
 # (déjà arrivé : « tickets » et « rsTitle »). Seules les clés de VOULUS sont redéfinies exprès.
-VOULUS = {'play', 'tourPlay', 'supLabels'}
+VOULUS = {'play', 'tourPlay', 'supLabels',
+          # lot 72 : recherche d'un CDI ou d'un CDD (l'alternance devient une option), textes redéfinis exprès dans labs7.js
+          'title', 'tWhoami', 'availLine', 'contactIntro', 'fmRole', 'mailBody', 'mailSubject', 'neo', 'shMailSubject', 'shText', 'slotIcsTitle', 'tourBrief', 'whoRole'}
 CODE2 = r"""
 const fs = require('fs'), vm = require('vm'), base = process.argv[1];
 const w = {}; const ctx = { window: w }; vm.createContext(ctx);
@@ -212,8 +214,8 @@ print(f'  {nb} commits vérifiés : un seul auteur autorisé, {AUTEUR[0]}')
 etape('Poids')
 total = sum(f.stat().st_size for f in SITE.rglob('*') if f.is_file())
 print(f'  site complet : {total // 1024} Ko')
-if total > 1200 * 1024:
-    erreur(f'le site dépasse 1 200 Ko ({total // 1024} Ko)')
+if total > 1250 * 1024:  # 1 250 Ko depuis le lot 72 (textes de la recherche en CDI/CDD dans les 6 langues)
+    erreur(f'le site dépasse 1 250 Ko ({total // 1024} Ko)')
 # Fichiers source (commentés) : 300 Ko au plus chacun ; la version en ligne est minifiée par esbuild (environ 2,5 fois plus légère)
 for f in (SITE / 'assets').glob('*'):
     if f.is_file() and f.stat().st_size > 300 * 1024:
